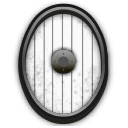
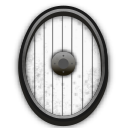
mask fix

diff --git a/site-config.js b/site-config.js
@@ -1,4 +1,4 @@
 // Update this value for each published revision of the editor.
 window.SITE_CONFIG = {
-  version: '0.1.2'
+  version: '0.1.4'
 };
